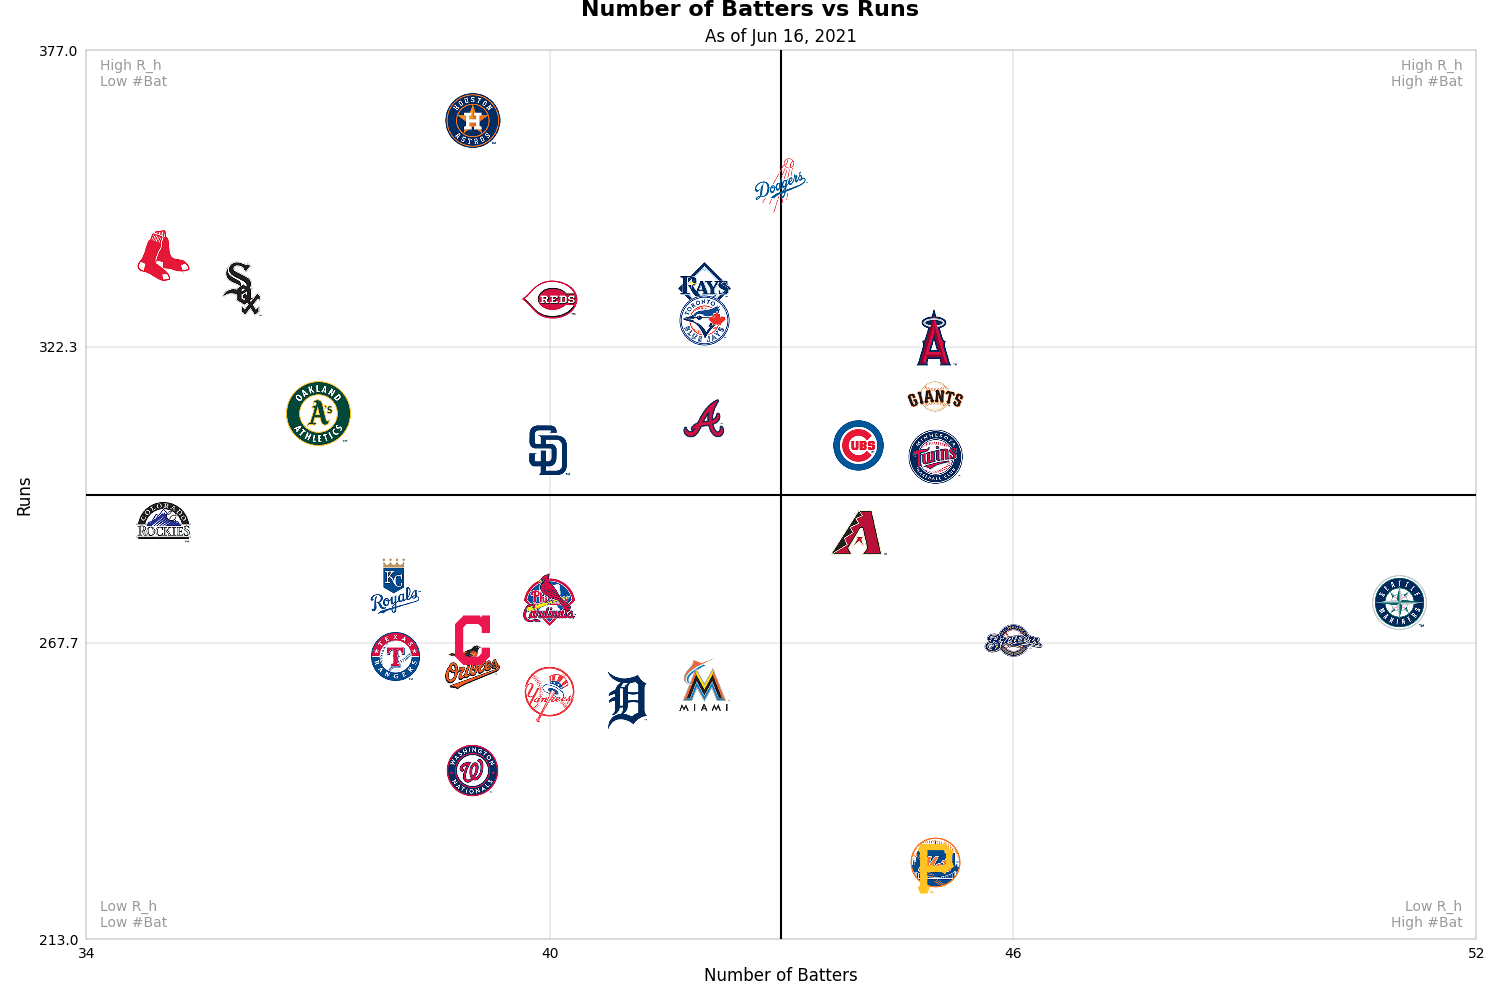
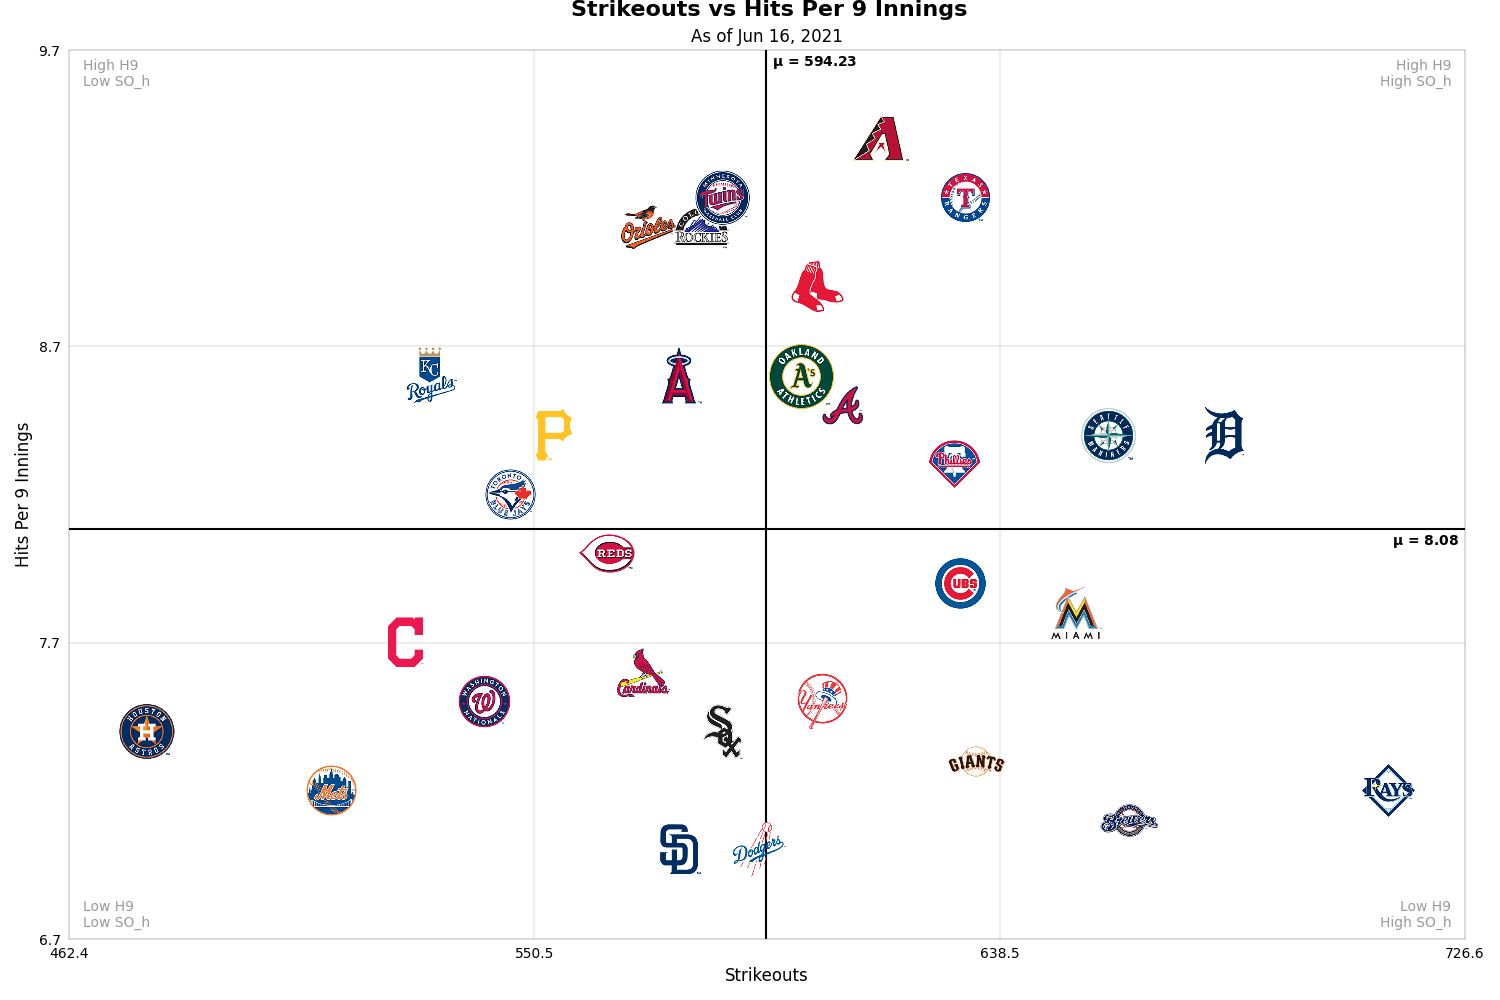
means for quadrants with mean labels, autocomplete all on focus

diff --git a/templates/index.html b/templates/index.html
@@ -52,20 +52,22 @@ also doesn't recognize that some logos are mostly transparent when detecting ove
             ];
             $("#stat1").autocomplete({
                 source: availableTags,
+                minLength: 0,
                 open: function(event, ui) {
                     $(this).autocomplete("widget").css({
                         "width": ($(this).width() + "px")
                     });
                 }
-            });
+            }).on('focus', function() { $(this).autocomplete("search"); });
             $("#stat2").autocomplete({
                 source: availableTags,
+                minLength: 0,
                 open: function(event, ui) {
                     $(this).autocomplete("widget").css({
                         "width": ($(this).width() + "px")
                     });
                 }
-            });
+            }).on('focus', function() { $(this).autocomplete("search"); });
             function onClickBox() {
                 let checked=$("#labelSetting").is(":checked");
                 localStorage.setItem("checked", checked);

diff --git a/graph_gen.py b/graph_gen.py
@@ -95,19 +95,19 @@ def overlapping_images(x, y, fig, ax, imgs):
                     # to the right of team b
                     if bound_a.bottom_left.x > bound_b.bottom_left.x:
                         text_x = coord_r + xincrement
-                        print(f'right of b, x = {text_x}')
+                        # print(f'right of b, x = {text_x}')
                     # to the left of team b
                     elif bound_a.top_right.x < bound_b.top_right.x:
                         text_x = coord_l - xincrement
-                        print(f'left of b, x = {text_x}')
+                        # print(f'left of b, x = {text_x}')
                     # higher than team b
                     if bound_a.top_right.y > bound_b.top_right.y:
                         text_y = coord_t + yincrement
-                        print(f'top of b, y = {text_y}')
+                        # print(f'top of b, y = {text_y}')
                     # lower than team b
                     elif bound_a.bottom_left.y < bound_b.bottom_left.y:
                         text_y = coord_b - yincrement
-                        print(f'bottom of b, y = {text_y}')
+                        # print(f'bottom of b, y = {text_y}')
                     # if team a and b 100% overlap (same left, right, top, bottom), it's better to label both teams
                     # in the case that user couldn't tell there was another team behind team b
                     if text_x is None and text_y is None:
@@ -121,8 +121,8 @@ def overlapping_images(x, y, fig, ax, imgs):
                     if text_y is None:
                         text_y = coord_my
 
-                    print(f'text x,y = {text_x},{text_y}')
-                    print(f'arrow x,y = {arrow_x},{arrow_y}')
+                    # print(f'text x,y = {text_x},{text_y}')
+                    # print(f'arrow x,y = {arrow_x},{arrow_y}')
 
                     # create initial text annotation and find it's bounding box
                     arrow = ax.annotate('', xy=(arrow_x, arrow_y), xytext=(text_x, text_y),
@@ -171,8 +171,8 @@ def overlapping_images(x, y, fig, ax, imgs):
                                                     arrowprops=dict(arrowstyle='-', lw=1), fontsize='small',
                                                     fontstretch='ultra-condensed')
                                 text = ax.text(coord[0], coord[1], team_a)
-                                print(f'text x,y = {coord[0]},{coord[1]}')
-                                print(f'arrow x,y = {arrow_x},{arrow_y}')
+                                # print(f'text x,y = {coord[0]},{coord[1]}')
+                                # print(f'arrow x,y = {arrow_x},{arrow_y}')
                                 break
 
                     # add text to bounding boxes
@@ -190,6 +190,7 @@ def overlapping_images(x, y, fig, ax, imgs):
 def generate(x, y, text=False, overlap_check=True):
     """
     Generated graph given pandas Series for x- & y-axis
+    :param overlap_check: check for logos that overlap and try to label hard to see plots
     :param text: use text labels for points instead of images
     :param x: x-axis data
     :param y: y-axis data
@@ -199,9 +200,13 @@ def generate(x, y, text=False, overlap_check=True):
     plt.rcParams['ytick.major.pad'] = '6'
 
     fig, ax = plt.subplots(figsize=(15, 10))
+
     # increase axes limits to fit edge images inside graph
     xmin, xmax = x.min(), x.max()
     ymin, ymax = y.min(), y.max()
+    xmean = x.mean()
+    ymean = y.mean()
+
     x0, y0, width, height = ax.get_tightbbox(fig.canvas.get_renderer()).bounds
 
     x_pixels_per_unit = width / (xmax - xmin)
@@ -213,17 +218,17 @@ def generate(x, y, text=False, overlap_check=True):
     # set x and y axis to 4 ticks total with even spacing
     ax.set_xlim(new_xmin, new_xmax)
     diff = new_xmax - new_xmin
-    xtick_one = round((1 / 3) * diff + new_xmin, 1)
-    xtick_two = round(new_xmax - (1 / 3) * diff, 1)
+    xtick_one = round((1 / 3) * diff + new_xmin, 2)
+    xtick_two = round(new_xmax - (1 / 3) * diff, 2)
     plt.xticks([new_xmin, xtick_one, xtick_two, new_xmax])
 
-    new_ymin = math.floor(ymin - (75 / y_pixels_per_unit))
-    new_ymax = math.ceil(ymax + (75 / y_pixels_per_unit))
+    new_ymin = math.floor((ymin - (75 / y_pixels_per_unit)) * 10) / 10
+    new_ymax = math.ceil((ymax + (75 / y_pixels_per_unit)) * 10) / 10
 
     ax.set_ylim(new_ymin, new_ymax)
     diff = new_ymax - new_ymin
-    ytick_one = round((1 / 3) * diff + new_ymin, 1)
-    ytick_two = round(new_ymax - (1 / 3) * diff, 1)
+    ytick_one = round((1 / 3) * diff + new_ymin, 2)
+    ytick_two = round(new_ymax - (1 / 3) * diff, 2)
     plt.yticks([new_ymin, ytick_one, ytick_two, new_ymax])
 
     ax.tick_params(axis=u'both', which=u'both', length=0)
@@ -231,11 +236,20 @@ def generate(x, y, text=False, overlap_check=True):
     for axis in ['top', 'bottom', 'left', 'right']:
         ax.spines[axis].set_linewidth(0.2)
 
-    # plot intersecting lines for quadrants
-    plt.vlines(x=(new_xmin + new_xmax) / 2, ymin=new_ymin, ymax=new_ymax,
+    # plot intersecting lines of the mean for main quadrants
+    print((new_xmin + new_xmax) / 2, xmean)
+    plt.vlines(x=xmean, ymin=new_ymin, ymax=new_ymax,
                colors=(0.0, 0.0, 0.0, 1.0))
-    plt.hlines(y=(new_ymin + new_ymax) / 2, xmin=new_xmin, xmax=new_xmax,
+
+    print((new_ymin + new_ymax) / 2, ymean)
+    plt.hlines(y=ymean, xmin=new_xmin, xmax=new_xmax,
                colors=(0.0, 0.0, 0.0, 1.0))
+
+    xincrement = (new_xmax - xtick_two) / 75
+    yincrement = (new_ymax - ytick_two) / 75
+
+    ax.text(xmean + xincrement, new_ymax - yincrement, fr'$\mathregular{{\mu}}$ = {round(xmean,2)}', fontweight='bold', va='top')
+    ax.text(new_xmax - xincrement, ymean - yincrement, fr'$\mathregular{{\mu}}$ = {round(ymean, 2)}', fontweight='bold', ha='right', va='top')
 
     # plot lines for each tick
     plt.vlines(x=xtick_one, ymin=new_ymin, ymax=new_ymax, linewidth=0.2,
@@ -293,9 +307,11 @@ def generate(x, y, text=False, overlap_check=True):
     plt.xlabel(x_verbose, size=12)
     plt.ylabel(y_verbose, size=12)
 
+    mid = (fig.subplotpars.right + fig.subplotpars.left) / 2
+
     d1 = date.today().strftime("%b %d, %Y")
-    plt.suptitle(f'{x_verbose} vs {y_verbose}', ha='center', va='bottom', fontsize=16, weight='bold')
-    plt.title(f'As of {d1}', weight='ultralight')
+    plt.suptitle(f'{x_verbose} vs {y_verbose}', ha='center', va='bottom', fontsize=16, weight='bold', x=mid)
+    ax.set_title(f'As of {d1}', weight='ultralight')
     plt.tight_layout()
     fig.subplots_adjust(top=0.95)
 

diff --git a/data_constants.py b/data_constants.py
@@ -7,7 +7,7 @@ stats_from_verbose = {
     'Number of Batters': '#Bat',
     'Average Age of Batters': 'BatAge',
     'Runs Per Game': 'R/G',
-    'Games': 'G',
+    # 'Games': 'G',
     'Plate Appearances': 'PA',
     'At Bats': 'AB',
     'Runs': 'R_h',
